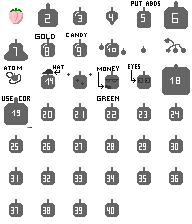
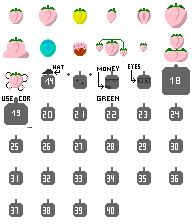
add images on utilities things

diff --git a/src/Controls/Store/Utility/UtilityStoreBaseContainer.jsx b/src/Controls/Store/Utility/UtilityStoreBaseContainer.jsx
@@ -10,6 +10,11 @@ import UtilityStoreLateralContent from "./UtilityStoreLateralContent"
 import '../Styles/StoreBaseContent.css'
 import StoreItemButton from './StoreItemButton';
 
+import dogIcon from '/assets/Dog/DogIcon.png'
+import beeIcon from '/assets/Bees/honeycomb.png'
+import birdIcon from '/assets/Birds/BirdIcon.png'
+import treeIcon from '/assets/Tree/treeIcon.png'
+
 export default function UtilityStoreBaseContainer() 
 {
 	var [selectedName, setSelectedName] = useState('')
@@ -180,10 +185,10 @@ export default function UtilityStoreBaseContainer()
 	}
 	return(<div className={'ControlContent'}>
 				<div className={'StoreButtonsBase'}>
-					<StoreItemButton ItemName={"Tree"} onClick={onTreeSelected}/>
-					<StoreItemButton ItemName={"Bees"} onClick={onBeesSelected}/>
-					<StoreItemButton ItemName={"Dog"} onClick={onDogSelected}/>
-					<StoreItemButton ItemName={"Bird"} onClick={onBirdSelected}/>
+					<StoreItemButton Icon={treeIcon} ItemName={"Tree"} onClick={onTreeSelected}/>
+					<StoreItemButton Icon={beeIcon} ItemName={"Bees"} onClick={onBeesSelected}/>
+					<StoreItemButton Icon={dogIcon} ItemName={"Dog"} onClick={onDogSelected}/>
+					<StoreItemButton Icon={birdIcon} ItemName={"Bird"} onClick={onBirdSelected}/>
 				</div>
 				<UtilityStoreLateralContent 
 					Name={selectedName}

diff --git a/src/Script/Birds/Bird.js b/src/Script/Birds/Bird.js
@@ -21,6 +21,18 @@ export default class Bird
 		this.ySpeed = ySpeed
 
 		this.queueDespawn = false
+
+    	this.image = new Image();
+   		this.image.src = `/assets/Birds/Bird.png`;
+    	this.image.onload = () => {
+    	  this.ImageLoaded = true
+    	};
+    	this.image.onerror = (e) => {
+    	  console.log(e)
+    	};
+
+		this.AnimationCooldown = 0.2;
+		this.sy = 0
 	}
 
 	Update(deltaTime)
@@ -28,15 +40,35 @@ export default class Bird
 		if(this.queueDespawn)
 			return;
 
-		this.context.fillStyle = "Blue"
+		if(!this.ImageLoaded)
+			return;
+
+		this.AnimationCooldown -= deltaTime
+
+		if(this.AnimationCooldown <= 0)
+		{
+			this.sy = this.sy == 0? 32: 0;
+			this.AnimationCooldown+= 0.2
+		}
 
 		this.X += this.xSpeed * deltaTime
 		this.Y += this.ySpeed * deltaTime
 
-		this.context.fillRect(this.X, this.Y, this.Size, this.Size);
-
+		this.DrawImage()
 		if(this.X < -200 || this.X > this.canvas.width + 200)
 			this.queueDespawn = true;
+	}
+
+	DrawImage()
+	{
+
+		this.context.save();
+		this.context.translate(this.xSpeed > 0? 0: this.canvas.width, 0);
+		this.context.scale(this.xSpeed > 0? 1: -1, 1);
+
+    	this.context.drawImage(this.image, 0, this.sy, 32, 32, this.xSpeed > 0?this.X: this.canvas.width - this.X, this.Y, 64, 64);
+		this.context.restore();
+
 	}
 
 	VerifyClick(x, y)

diff --git a/src/Script/Managers/DogManager.js b/src/Script/Managers/DogManager.js
@@ -17,21 +17,34 @@ export default class DogManager
 		this.canvas = canvas
 
 		this.Reset()
+    	this.image = new Image();
+   		this.image.src = `/assets/Dog/Dog.png`;
+    	this.image.onload = () => {
+    	  this.ImageLoaded = true
+    	};
+    	this.image.onerror = (e) => {
+    	  console.log(e)
+    	};
+
+		this.X = 20
+		this.Y = 490
 	}
 
 	Update(deltaTime)
 	{
 		if(this.Level == 0)
 			return;
-
-		this.context.fillStyle = "Blue"
-		this.context.fillRect(20, (this.canvas.height) - 100, 50, 50);
+		if(!this.ImageLoaded)
+			return;
 
 		if(this.Cooldown > 0)
 		{
 			this.Cooldown -= deltaTime
-			this.context.fillStyle = "Red"
-			this.context.fillRect(20, (this.canvas.height) - 100, 50, 50);
+    		this.context.drawImage(this.image, 0, 32, 32, 32, this.X, this.Y, 64, 64);
+
+		}else
+		{
+    		this.context.drawImage(this.image, 0, 0, 32, 32, this.X, this.Y, 64, 64);
 
 		}
 

diff --git a/src/Script/Managers/BeeManager.js b/src/Script/Managers/BeeManager.js
@@ -13,6 +13,15 @@ export default class BeeManager
 		this.canvas = canvas
 
 		this.Reset()
+		
+    	this.image = new Image();
+   		this.image.src = `/assets/Bees/honeycomb.png`;
+    	this.image.onload = () => {
+    	  this.ImageLoaded = true
+    	};
+    	this.image.onerror = (e) => {
+    	  console.log(e)
+    	};
 	}
 
 	Update(deltaTime)
@@ -20,8 +29,10 @@ export default class BeeManager
 		if(this.Level == 0)
 			return;
 		
-		this.context.fillStyle = "Yellow"
-		this.context.fillRect(520, 380, 50, 50);
+		if(!this.ImageLoaded)
+			return;
+
+    	this.context.drawImage(this.image, 480, 340, 128, 128);
 
 		this.Cooldown -= deltaTime
 

diff --git a/src/Controls/Store/Utility/StoreItemButton.jsx b/src/Controls/Store/Utility/StoreItemButton.jsx
@@ -6,7 +6,7 @@ export default function StoreItemButton(props) {
 
   return (
 	<div onClick={props.onClick}className={'StoreFruitButton'}>
-		<img src={moneyIcon} width={32} height={32} alt="Descrição da imagem" style={{ imageRendering: 'pixelated' }}  />
+		<img src={props.Icon} width={32} height={32} alt="Descrição da imagem" style={{ imageRendering: 'pixelated', scale: '2' }}  />
 		<div style={{textAlign:'center', fontSize:'xx-large'}}>{props.ItemName}</div>
 		<div>Price: </div>
 		<div>Spawn Timer: s</div>

diff --git a/src/Script/Managers/GameManager.js b/src/Script/Managers/GameManager.js
@@ -75,9 +75,9 @@ export default class GameManager
   	update(deltaTime) 
 	{
 		this.skyManager.update()
+		this.BeeManager.Update(deltaTime)
 		this.treeManager.Update()
 		this.DogManager.Update(deltaTime)
-		this.BeeManager.Update(deltaTime)
 		this.fruitManager.Update(deltaTime)
 		this.flowerManager.Update(deltaTime)
 		this.BirdManager.Update(deltaTime)

diff --git a/src/Script/Fruits/Entites/FruitSpawner.js b/src/Script/Fruits/Entites/FruitSpawner.js
@@ -6,6 +6,7 @@ import {ChangeFruitBranchUpgrade, GetBranchUpgradeCollection} from '../../Branch
 import {GetNextFruit} from '../Factories/FruitFactory'
 import MissionAction from '../../Missions/Entities/MissionAction'
 import { EMissionType } from '../../Missions/Enums/EMissionType'
+
 export default class FruitSpawner
 {
 	context;

diff --git a/src/Script/Managers/BirdManager.js b/src/Script/Managers/BirdManager.js
@@ -1,6 +1,7 @@
 import Bird from "../Birds/Bird"
 import { GetBranchUpgradeCollection } from '../../Script/BranchUpgrade/Functions/BirdBranchUpgrade'
 import { gameManager } from "../../App";
+
 export default class BirdManager
 {
 

diff --git a/src/Script/Fruits/Entites/Fruit.js b/src/Script/Fruits/Entites/Fruit.js
@@ -1,4 +1,3 @@
-
 export default class Fruit
 {
 	context;
